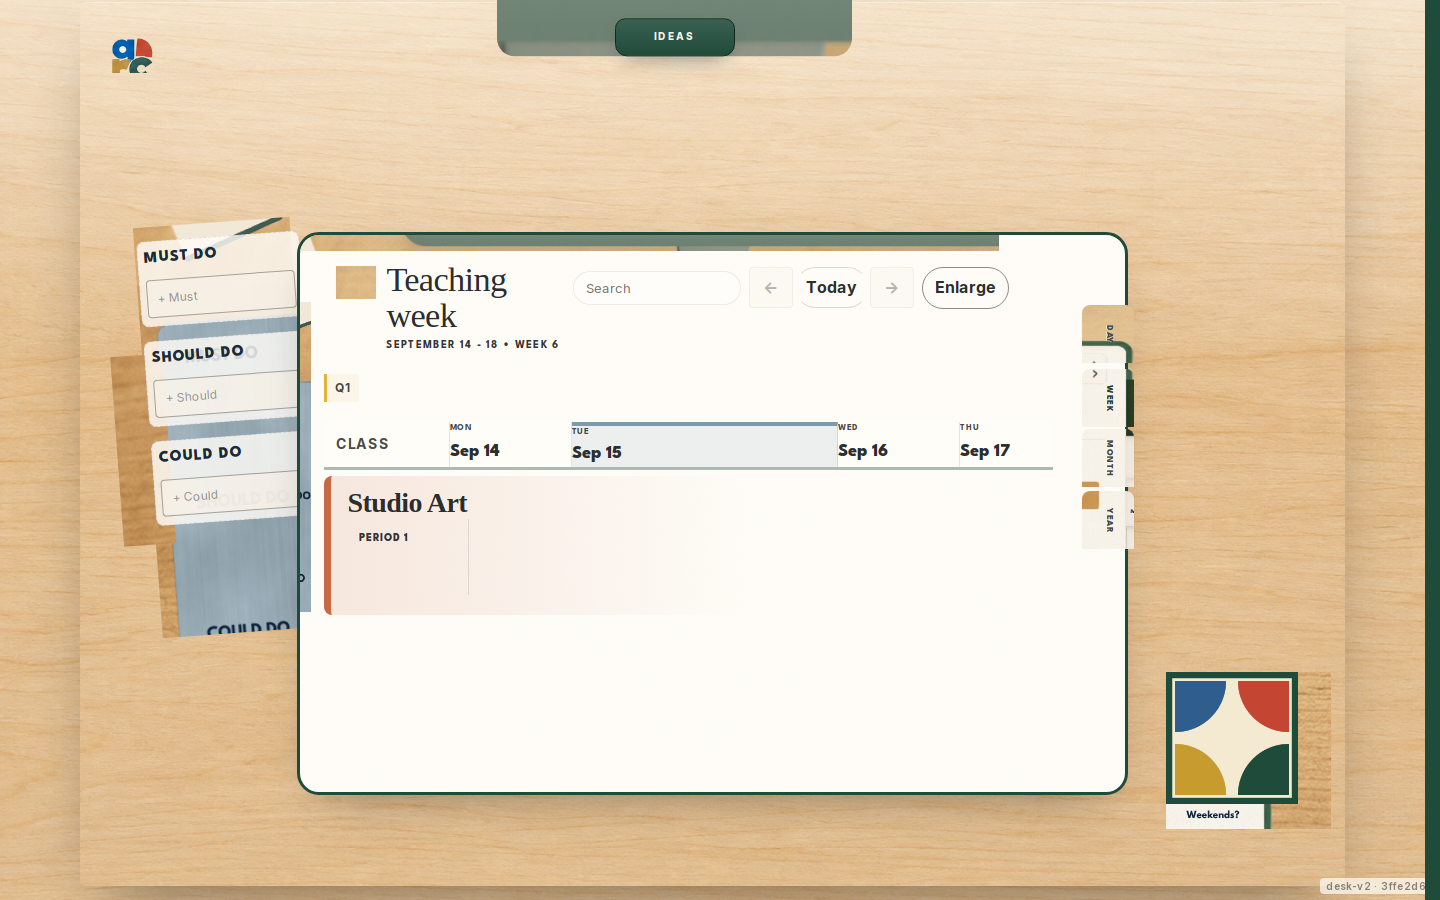
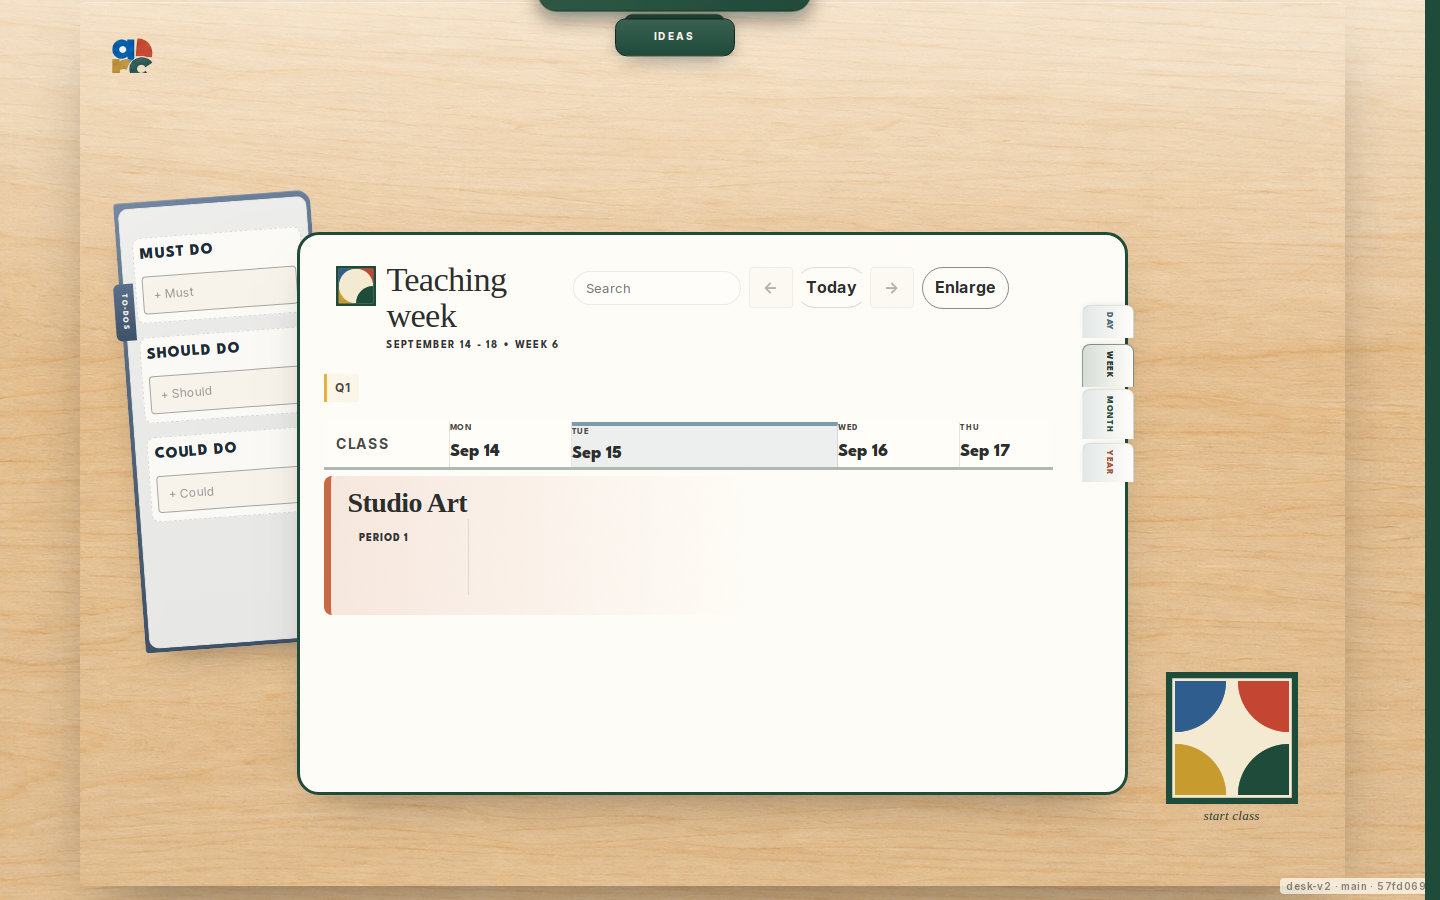
fix(desk): default to source SVG/PNG assets, not teaching-week comp crops
Kelly’s Teaching week zip only contained 1.png (full comp) and a blank 2.png.
Desk preview now uses committed source files (green-folders-drawer.svg, icarus
wood, CSS chrome, AT-001 title mark) by default. Comp-crop slices are opt-in
via VITE_ARC_DESK_SLICES=true or ?deskSlices=1.

Document crop vs source honesty matrix and request discrete layer exports in
uploads/desk-incoming. Update smoke tests for default source mode.

diff --git a/src/desk/deskSliceRuntime.ts b/src/desk/deskSliceRuntime.ts
@@ -1,8 +1,26 @@
 import { publicAssetUrl } from '../publicAssetUrl'
 import { deskSliceById, type DeskSliceId } from '../navigation/deskSliceManifestData'
 
+/**
+ * Comp-crop rasters under `assets/desk/slices/` — opt-in only.
+ * Default desk preview uses committed SVG/PNG source files (green drawer, CSS tabs, ArcTable mark).
+ * Enable crops: `VITE_ARC_DESK_SLICES=true` at build time or `?deskSlices=1` in the URL.
+ */
 export function deskSliceUsesEnabled(): boolean {
-  return import.meta.env.VITE_ARC_DESK_SLICES !== 'false'
+  if (typeof window !== 'undefined') {
+    const flag = new URLSearchParams(window.location.search).get('deskSlices')
+    if (flag === '1') return true
+    if (flag === '0') return false
+  }
+  return import.meta.env.VITE_ARC_DESK_SLICES === 'true'
+}
+
+/** Week title cluster mark — vector source unless comp-crop slice mode is on. */
+export function deskPlannerTitleMarkUrl(): string {
+  if (deskSliceUsesEnabled()) {
+    return publicAssetUrl('assets/desk/planner-rainbow-mark.png')
+  }
+  return publicAssetUrl('assets/arctable/AT-001_table-mark.svg')
 }
 
 export function deskSliceAssetUrl(id: DeskSliceId): string | null {

diff --git a/src/components/DeskPlannerHeadRow.tsx b/src/components/DeskPlannerHeadRow.tsx
@@ -1,5 +1,5 @@
 import type { ComponentProps, RefObject } from 'react'
-import { publicAssetUrl } from '../publicAssetUrl'
+import { deskPlannerTitleMarkUrl, deskSliceUsesEnabled } from '../desk/deskSliceRuntime'
 import { PlanStateHeader } from './PlanStateHeader'
 
 type PlanStateProps = ComponentProps<typeof PlanStateHeader>
@@ -31,6 +31,7 @@ export function DeskPlannerHeadRow({
   }
 
   const showRainbowMark = planState.view === 'Week'
+  const titleMarkUrl = deskPlannerTitleMarkUrl()
 
   return (
     <div className="desk-planner-head-row" data-testid="desk-planner-head-row">
@@ -38,10 +39,11 @@ export function DeskPlannerHeadRow({
         {showRainbowMark ? (
           <img
             className="desk-planner-rainbow-mark"
-            src={publicAssetUrl('assets/desk/planner-rainbow-mark.png')}
+            src={titleMarkUrl}
             alt=""
             aria-hidden="true"
             data-testid="desk-planner-rainbow-mark"
+            data-desk-mark-source={deskSliceUsesEnabled() ? 'comp-crop' : 'vector'}
             decoding="async"
           />
         ) : null}

diff --git a/src/components/DeskGreenFoldersDrawer.tsx b/src/components/DeskGreenFoldersDrawer.tsx
@@ -28,7 +28,11 @@ export function DeskGreenFoldersDrawer({ children, defaultExtended = false }: Pr
       data-desk-slices={slicesEnabled ? 'true' : 'false'}
     >
       <div className="arc-desk-green-drawer-shell">
-        <div className="arc-desk-green-drawer-art" aria-hidden="true">
+        <div
+          className="arc-desk-green-drawer-art"
+          aria-hidden="true"
+          data-testid={slicesEnabled ? undefined : 'desk-source-ideas-drawer'}
+        >
           {slicesEnabled ? (
             <DeskChromeSlice sliceId="ideas-drawer-chrome" testId="desk-slice-ideas-drawer" />
           ) : (

diff --git a/src/components/DeskTodosFolder.tsx b/src/components/DeskTodosFolder.tsx
@@ -23,8 +23,8 @@ export function DeskTodosFolder({ children }: Props) {
         </>
       ) : (
         <>
-          <div className="arc-desk-todos-folder-sheet" aria-hidden="true" />
-          <p className="arc-desk-todos-folder-tab" aria-hidden="true">
+          <div className="arc-desk-todos-folder-sheet" aria-hidden="true" data-testid="desk-source-todos-body" />
+          <p className="arc-desk-todos-folder-tab" aria-hidden="true" data-testid="desk-source-todos-tab">
             TO-DOS
           </p>
         </>

diff --git a/docs/overnight/TEACHING-WEEK-ZIP-INCORPORATION.md b/docs/overnight/TEACHING-WEEK-ZIP-INCORPORATION.md
@@ -3,53 +3,70 @@
 **Zip:** `Teaching_week__1__01fd.zip` → `uploads/desk-incoming/teaching-week-1/`  
 **Authority comp:** `1.png` (1366×768) — committed as `docs/overnight/evidence/kelly-teaching-week-authority.png`
 
+**Honesty matrix:** `docs/overnight/TEACHING-WEEK-ASSETS-HONESTY.md` — what is a real file vs a crop from `1.png`.
+
+## Zip contents (complete list)
+
+| File | Role |
+|------|------|
+| `1.png` | Full Teaching week comp — layout/pixel reference only |
+| `2.png` | Blank 1920×1080 — not wired |
+| *(no other assets)* | Kelly did **not** include separate layer exports in this zip |
+
 ## File mapping
 
 | Zip / source | Committed path | UI hook |
 |--------------|----------------|---------|
 | `1.png` (full comp) | `docs/overnight/evidence/kelly-teaching-week-authority.png` | Pixel pass default (`DESK_KELLY_REF`), north-star docs |
 | `1.png` (mirror) | `public/assets/desk/figma/kelly-teaching-week-hero.png` | Evidence / hero reference (not runtime shell) |
-| `1.png` (norm-crop) | `public/assets/desk/slices/*.png` | `DeskChromeSlice` via `deskSliceManifestData.ts` |
-| `1.png` (title crop) | `public/assets/desk/planner-rainbow-mark.png` | `DeskPlannerHeadRow` `data-testid="desk-planner-rainbow-mark"` |
+| `1.png` (norm-crop, **opt-in**) | `public/assets/desk/slices/*.png` | `DeskChromeSlice` when `VITE_ARC_DESK_SLICES=true` or `?deskSlices=1` |
+| `1.png` (title crop, **opt-in**) | `public/assets/desk/planner-rainbow-mark.png` | Title mark only when slice mode on; default is `AT-001_table-mark.svg` |
 | `2.png` | `docs/overnight/evidence/kelly-teaching-week-zip-2-blank.png` | **None** — blank 1920×1080; no UI hook |
-| — | `scripts/export-desk-teaching-week-slices.mjs` | Re-crop slices after comp updates |
+| — | `scripts/export-desk-teaching-week-slices.mjs` | **Last resort** re-crop — see ASSETS-HONESTY doc |
 
-**Not replaced from zip (no separate layers in zip):** icarus `texture-wood`, `assets/arc/arc-mark.png`, live week grid React, priority pad copy, edge tab button labels.
+**Default runtime (no crops):** `green-folders-drawer.svg`, icarus `texture-wood`, CSS TO-DOS + edge tabs, `ArcTableDeskMarkSvg`, live planner React.
+
+**Not replaced from zip (no separate layers in zip):** icarus wood, `arc-mark.png`, live week grid, priority pad copy.
+
+## Kelly export pack request
+
+This zip is a **single comp**. For production fidelity without cropping, please add discrete exports to `uploads/desk-incoming/` (see README there) — one PNG/SVG per chrome layer — then ask to incorporate again.
 
 ## Demo routing
 
 - `maybeApplyDemoSeed`: `demoReset=1` seeds **Kelly Teaching week** bundle (Sept 7–11) and marks desk preview session (same as desk preview build).
 - `AppFrame`: Month-on-desk drift → **Week** when desk shell forced or Kelly demo session seeded.
 
-## Placement checklist (vs zip `1.png`)
+## Placement checklist (vs zip `1.png`, **source mode default**)
 
 | Region | testid / selector | Status |
 |--------|-------------------|--------|
-| Wood viewport | `arc-desk-tabletop`, `.arc-shell--desk` | **PASS** |
+| Wood viewport | `arc-desk-tabletop`, `.arc-shell--desk` | **PASS** (icarus texture) |
 | Arc wordmark on wood | `arc-desk-wood-wordmark` | **PASS** |
-| IDEAS drawer top-center | `desk-slice-ideas-drawer`, `arc-desk-tray-dock` | **PASS** (Kelly crop) |
-| TO-DOS folder + tab | `desk-slice-todos-body`, `desk-slice-todos-tab` | **PASS** (Kelly crop) |
-| Planner green frame accents | `desk-planner-frame-slices` | **PASS** (Kelly crop) |
+| IDEAS drawer | `desk-source-ideas-drawer`, `green-folders-drawer.svg` | **PASS** (vector source) |
+| TO-DOS folder + tab | `desk-source-todos-body`, `desk-source-todos-tab` | **PASS** (CSS source) |
+| Planner green frame | live spread CSS | **PASS** (no comp crop by default) |
 | Title Teaching week + kicker | `.plan-state-primary`, `.plan-state-secondary` | **PASS** |
-| Rainbow beside title | `desk-planner-rainbow-mark` | **PARTIAL** (Kelly crop; scale vs comp) |
+| Rainbow beside title | `desk-planner-rainbow-mark` `data-desk-mark-source="vector"` | **PASS** (AT-001 SVG) |
 | Search + Today cluster | `desk-planner-search`, `desk-planner-today` | **PARTIAL** (chevrons disabled) |
-| Week grid courses / unit | demo seed + planning grid | **PASS** (period labels aligned to comp) |
-| Edge tabs DAY/WEEK/MONTH/YEAR | `arc-planner-physical-tabs`, slice rasters | **PASS** (Kelly crop; WEEK active on home) |
-| Start class + frame | `arc-desk-arctable`, `desk-slice-start-class-frame` | **PASS** (Kelly crop) |
+| Week grid courses / unit | demo seed + planning grid | **PASS** |
+| Edge tabs DAY/WEEK/MONTH/YEAR | `arc-planner-physical-tabs`, `data-desk-slices="false"` | **PASS** (CSS tabs) |
+| Start class + mark | `arc-desk-arctable`, `ArcTableDeskMarkSvg` | **PASS** (no frame crop by default) |
 | `?demo=1&demoReset=1` → Week + kicker | smoke + seed | **PASS** |
+
+Optional comp-crop mode (`?deskSlices=1`): prior slice testids; use only for pixel diff experiments, not Kelly-facing default.
 
 ## Remaining gaps
 
-1. **Pixel diff** vs authority @ 1696×1254: **~57.14% RGB** (SSIM ~0.25) — `round-teaching-week-zip-REPORT.md` (improved vs prior ~60% baseline; still above 15% gate).
+1. **Pixel diff** vs authority @ 1696×1254: **~57% RGB** — source mode will differ from flat comp until discrete Kelly exports are wired.
 2. **`2.png`** — empty; Kelly may re-export if a 1080p comp was intended.
-3. **Live chrome** — course row colored rails, “Weekends?” footer, LINE token on IDEAS stones (hidden when slices on).
-4. **Viewport** — runtime 1440×1024 tabletop vs Kelly 16:9 comp; global scale mismatch.
+3. **Discrete layer pack** — not in zip; needed to match comp without cropping `1.png`.
 
 ## Tests (after `npm run preview:desk:serve`)
 
 ```bash
 npm run test:contracts
-npm run test:desk-slices
-npm run test:arc-desk-pass
+npm run test:desk-slices    # opt-in crops via ?deskSlices=1
+npm run test:arc-desk-pass  # default source files
 npm run test:desk-pixel-pass
 ```

diff --git a/docs/overnight/TEACHING-WEEK-ASSETS-HONESTY.md b/docs/overnight/TEACHING-WEEK-ASSETS-HONESTY.md
@@ -1,0 +1,59 @@
+# Teaching week assets — crop vs source file honesty
+
+Kelly’s feedback: the desk looked like **one demo image cropped into pieces**, not **real PNG/SVG files wired in**.
+
+This doc is the audit matrix after re-reading `Teaching_week__1__01fd.zip` and the repo.
+
+## Zip inventory (`uploads/desk-incoming/teaching-week-1/`)
+
+| File | Size | What it is |
+|------|------|------------|
+| `1.png` | 1366×768 | Full **Teaching week comp** (authority layout reference) |
+| `2.png` | 1920×1080 | **Blank white** — no UI; not wired |
+| `INVENTORY.md` | — | Agent notes |
+
+**No other files** — no per-layer SVG/PNG exports (drawer, folder, tabs, frame, etc.).
+
+Committed copies:
+
+- Authority: `docs/overnight/evidence/kelly-teaching-week-authority.png`
+- Hero mirror: `public/assets/desk/figma/kelly-teaching-week-hero.png` (+ `kelly-teaching-week-comp.png`)
+
+## Runtime: source file vs comp crop
+
+| UI region | **Source file (default)** | **Comp crop (opt-in only)** | Wired how |
+|-----------|---------------------------|-----------------------------|-----------|
+| Wood tabletop | `public/assets/arc/icarus/texture-wood.png` | — | CSS `--arc-wood-surface-image` |
+| IDEAS drawer | `public/assets/desk/green-folders-drawer.svg` | `slices/ideas-drawer-chrome.png` from `1.png` | SVG on shell; crop via `DeskChromeSlice` when `deskSlices=1` |
+| TO-DOS folder | CSS `.arc-desk-todos-folder-*` | `slices/todos-folder-body.png`, `todos-folder-tab.png` | Same opt-in |
+| Planner green frame accents | Live React / CSS spread | `slices/planner-frame-*-accent.png` | `DeskPlannerFrameSlices` only when slices on |
+| Week title rainbow mark | `public/assets/arctable/AT-001_table-mark.svg` | `planner-rainbow-mark.png` from `1.png` | `deskPlannerTitleMarkUrl()` |
+| Edge tabs DAY/WEEK/… | CSS `.arc-index-tab` denim/cream | `slices/planner-edge-tab-*.png` | Background image only when slices on |
+| Start class frame | `ArcTableDeskMarkSvg` + CSS | `slices/start-class-frame.png` | Slice behind mark when slices on |
+| Arc wordmark on wood | `assets/arc/arc-mark.png` (existing) | — | Component |
+| Live week grid / copy | React + demo seed | — | Not raster |
+
+**Opt-in comp crops:** build with `VITE_ARC_DESK_SLICES=true` or open preview with `?deskSlices=1`.
+
+**Do not** run `scripts/export-desk-teaching-week-slices.mjs` unless there is still no discrete export for that layer — it overwrites `public/assets/desk/slices/*.png` from the authority comp.
+
+Figma-era fallback crops (different comp): `scripts/export-desk-figma-slices.mjs` → same slice filenames, source `docs/overnight/evidence/figma-desk-6-3194/06-image-gen-7-37-11053.png`.
+
+## What Kelly should send next
+
+Please export **one PNG or SVG per layer** from Figma (not a single flattened comp), into `uploads/desk-incoming/`:
+
+- IDEAS drawer (vector preferred)
+- TO-DOS folder body + tab
+- Planner frame accents (or one frame SVG)
+- Vertical DAY/WEEK/MONTH/YEAR tabs (active + inactive)
+- Start-class / ArcTable frame chrome
+- Title mark beside “Teaching week” (if not `AT-001`)
+
+List each file in `uploads/desk-incoming/README.txt`. An agent will place them under `public/assets/desk/` or `public/assets/desk/slices/` and point the manifest at **files**, not crops.
+
+## Tests
+
+- Default (source mode): `npm run test:arc-desk-pass` — asserts SVG/CSS, not slice testids.
+- Crop mode: `npm run test:desk-slices` — loads `?deskSlices=1`.
+- Manifest contract: `npm run test:contracts` — slice PNG paths still valid for opt-in mode.

diff --git a/uploads/desk-incoming/teaching-week-1/INVENTORY.md b/uploads/desk-incoming/teaching-week-1/INVENTORY.md
@@ -11,4 +11,6 @@ Committed authority copy: `docs/overnight/evidence/kelly-teaching-week-authority
 
 Hero mirror: `public/assets/desk/figma/kelly-teaching-week-hero.png`.
 
-Slice re-export: `node scripts/export-desk-teaching-week-slices.mjs` → `public/assets/desk/slices/*.png` + `public/assets/desk/planner-rainbow-mark.png`.
+**Runtime default:** committed source files (`green-folders-drawer.svg`, icarus wood, CSS chrome) — **not** crops from `1.png`. See `docs/overnight/TEACHING-WEEK-ASSETS-HONESTY.md`.
+
+Last-resort slice re-export (only if no discrete layer files): `node scripts/export-desk-teaching-week-slices.mjs` → `public/assets/desk/slices/*.png` + `planner-rainbow-mark.png` (opt-in via `?deskSlices=1`).

diff --git a/docs/overnight/DESK-SLICE-PLACEMENT.md b/docs/overnight/DESK-SLICE-PLACEMENT.md
@@ -12,7 +12,7 @@ Kelly desk chrome uses **committed raster slices** from Figma file `CfWcuQPY4ljY
 | Runtime URL helpers | `src/desk/deskSliceRuntime.ts` |
 | Re-export script | `scripts/export-desk-figma-slices.mjs` |
 
-Disable slices locally: `VITE_ARC_DESK_SLICES=false` (falls back to SVG/CSS chrome).
+Comp-crop slices are **opt-in**: `VITE_ARC_DESK_SLICES=true` at build or `?deskSlices=1` in the URL. Default desk preview uses committed SVG/CSS source chrome (`green-folders-drawer.svg`, planner tab CSS, `AT-001_table-mark.svg`).
 
 ## Manifest mapping
 

diff --git a/docs/KELLY-WHERE-TO-PUT-DESK-ASSETS.md b/docs/KELLY-WHERE-TO-PUT-DESK-ASSETS.md
@@ -103,7 +103,7 @@ If files are already in the correct `public/assets/…` folder, say:
 
 - `src/navigation/deskSliceManifestData.ts` and `src/desk/deskSliceRuntime.ts` — code that points the app at slice PNGs  
 - `scripts/export-desk-figma-slices.mjs` — re-export from Figma evidence  
-- Turning slices on/off via `VITE_ARC_DESK_SLICES` in local env (developer only)
+- Comp-crop slices are **off by default**. Developers enable with `VITE_ARC_DESK_SLICES=true` or `?deskSlices=1` (see `TEACHING-WEEK-ASSETS-HONESTY.md`)
 
 ---
 
